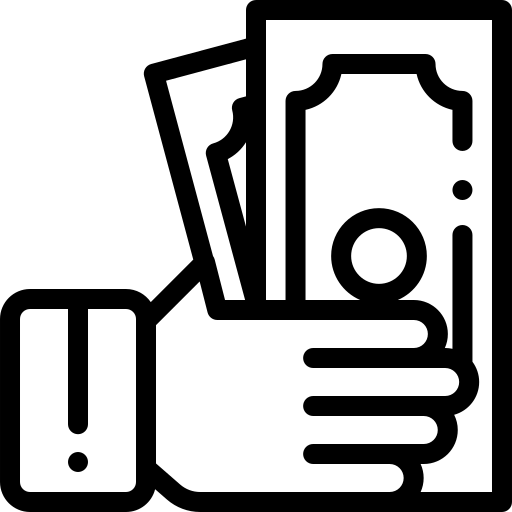
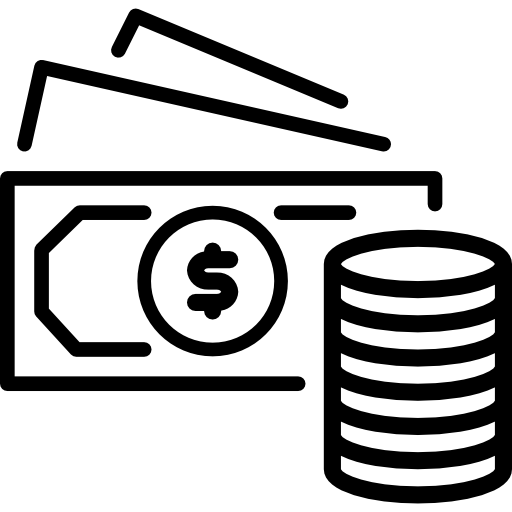
retoques css memori, pantalla 1380

diff --git a/juegos/memori/memori.css b/juegos/memori/memori.css
@@ -534,7 +534,7 @@ body {
   border: 4px solid #2d3748;
   color: #2d3748;
   font-size: 18px;
-  width: 150px;
+  width: 190px;
   padding: 15px;
   border-radius: 12px;
   text-align: left;
@@ -914,6 +914,7 @@ body {
 
   .tablero {
     margin: 20px auto 0 auto;
+    margin-left: 275px;
   }
 
   #marcador,
@@ -927,6 +928,7 @@ body {
     margin-left: auto;
     width: 125px;
     margin-bottom: 20px;
+    margin-bottom: 100px;
   }
 
   .carta {
@@ -937,9 +939,10 @@ body {
   #ranking {
     position: static;
     font-size: 14px;
-    width: 125px;
+    width: 190px;
     padding: 12px;
     border-radius: 10px;
+    margin-bottom: 100px;
   }
   #ranking h3 {
     font-size: 16px;
@@ -957,7 +960,7 @@ body {
     align-items: center;
     justify-content: center;
     gap: 8px;
-    width: auto;
+
     min-width: 100px;
     font-size: 18px;
     padding: 10px 15px;
@@ -1008,7 +1011,7 @@ body {
   #ranking {
     position: static;
     font-size: 16px;
-    width: 150px;
+    width: 190px;
     padding: 12px;
     border-radius: 10px;
   }
@@ -1020,18 +1023,6 @@ body {
   #ranking li {
     font-size: 14px;
     margin-bottom: 4px;
-  }
-
-  #salir-juego-memori {
-    position: static;
-    display: inline-flex;
-    align-items: center;
-    justify-content: center;
-    gap: 8px;
-    width: auto;
-    min-width: 120px;
-    font-size: 16px;
-    padding: 10px 15px;
   }
 }
 
@@ -1121,7 +1112,7 @@ body {
     margin-top: 5px;
     margin-bottom: 20px;
     margin-left: 10px;
-    width: 190px;
+    width: 180px;
   }
 
   #salir-juego-memori {
@@ -1211,7 +1202,7 @@ body {
     margin-top: 5px;
     margin-bottom: 20px;
     margin-left: 10px;
-    width: 190px;
+    width: 180px;
   }
 
   #salir-juego-memori {

diff --git a/juegos/damas/damas.js b/juegos/damas/damas.js
@@ -1974,11 +1974,7 @@ const JuegoDamas = (() => {
         const estado = estadoGlobalDamas;
 
         if (!estado.sorteoRealizado) {
-          if (typeof window.mostrarAvisoDamas === "function") {
-            window.mostrarAvisoDamas(t("damas.warning.mustShuffle"));
-          } else {
-            alert(t("damas.warning.mustShuffle"));
-          }
+          mostrarAvisoDamas(t("damas.warning.mustShuffle"));
           return;
         }
 
